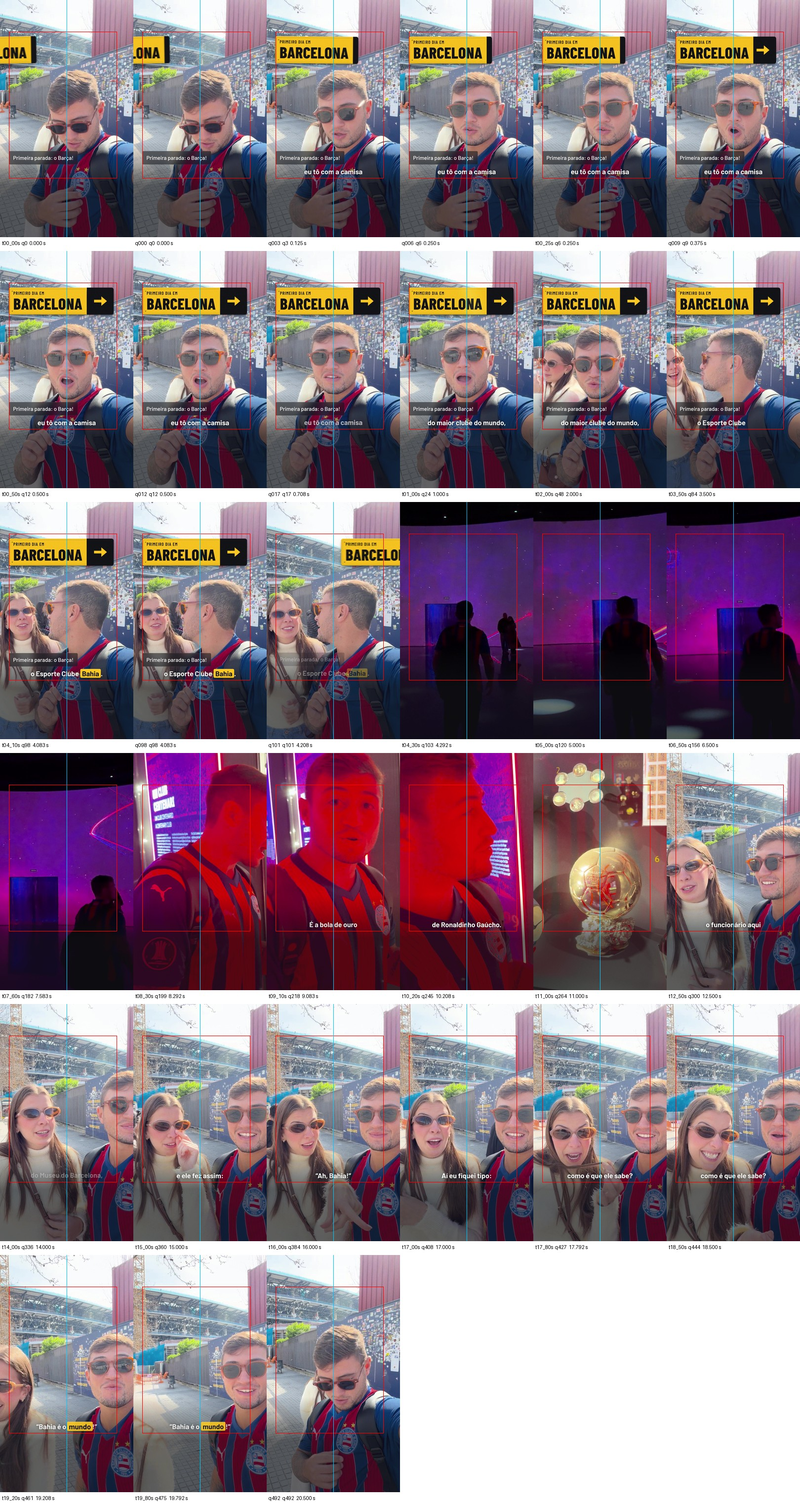
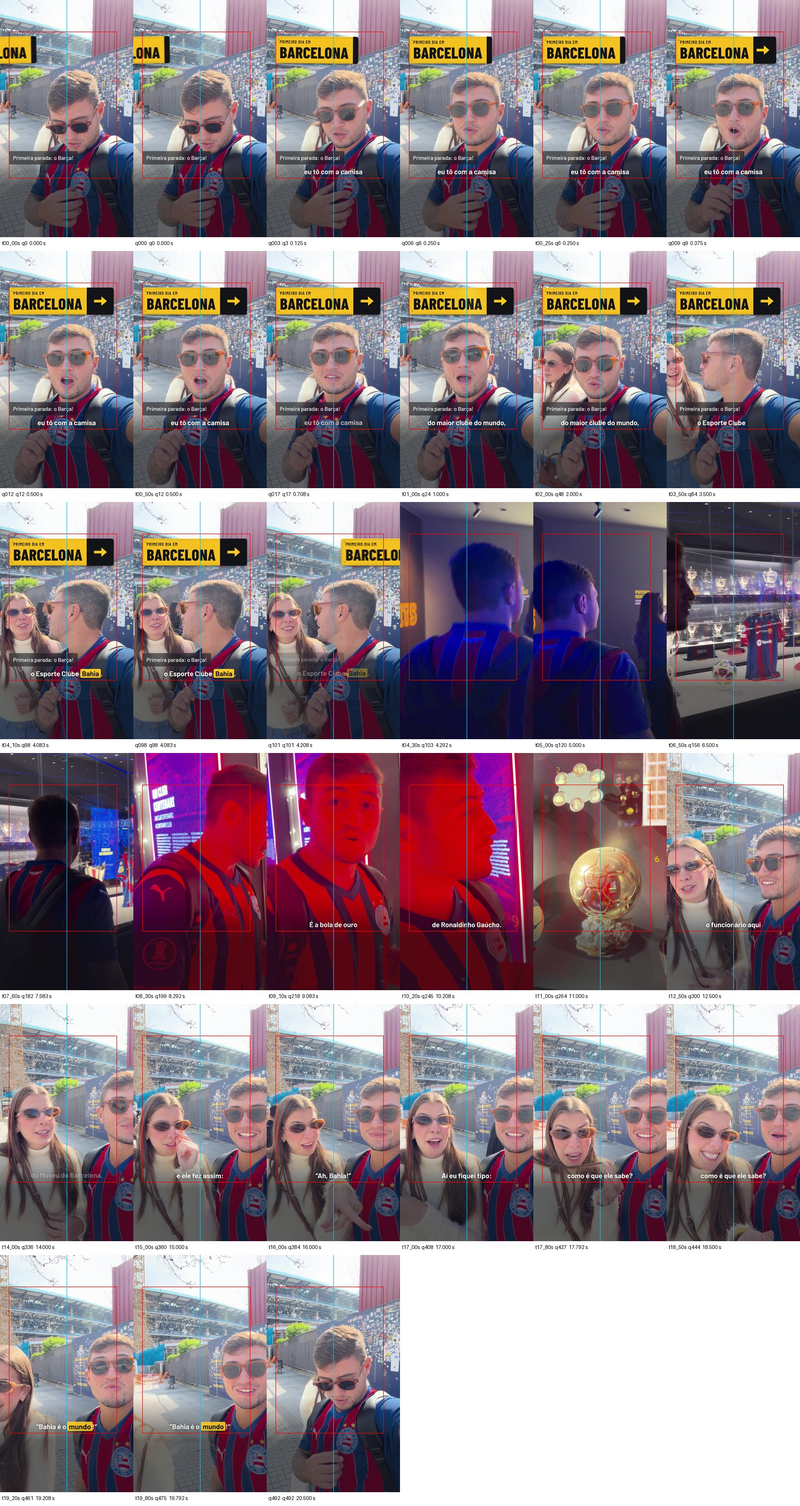
fix(reel-bahia): você andando entre os troféus (IMG_0518) no lugar da sala imersiva
Dois cortes de 2 s do IMG_0518 (0–2 s e 10,17–12,17 s) somam os 4 s com o
Diego em quadro. Corrige a alça de áudio quando o plano começa em 0,0 s do
bruto.

Claude-Session: https://claude.ai/code/session_013wMMhRerBzmbda97gbmPHk

Changed region(s): [[0.4938, 0.3117, 1.0, 0.4987], [0.0, 0.4987, 0.1852, 0.6545]]

diff --git a/reels/bahia-camp-nou/rev1/scripts/rev1.py b/reels/bahia-camp-nou/rev1/scripts/rev1.py
@@ -739,7 +739,12 @@ def montar_audio():
         r0, r1 = p["r0"] * SPF, p["r1"] * SPF
         ha = h if i > 0 else 0
         hb = h if i < len(PL) - 1 else 0
-        trecho = src[o0 - ha:o0 + (r1 - r0) + hb].copy()
+        # alças da emenda: se o plano começa/termina rente ao bruto, completa com silêncio
+        pre = max(0, ha - o0)
+        trecho = np.vstack([np.zeros((pre, 2)), src[max(0, o0 - ha):o0 + (r1 - r0) + hb]])
+        falta = (r1 - r0) + ha + hb - len(trecho)
+        if falta > 0:
+            trecho = np.vstack([trecho, np.zeros((falta, 2))])
         env = np.ones(len(trecho))
         if ha:
             env[:2 * ha] = np.sin(np.linspace(0, np.pi / 2, 2 * ha))

diff --git a/reels/bahia-camp-nou/rev1/QA_REV1.md b/reels/bahia-camp-nou/rev1/QA_REV1.md
@@ -13,7 +13,7 @@
 | `rev1/rev1.json` · `rev1/scripts/rev1.py` · `rev1/scripts/capa.py` | Projeto reproduzível (cortes, textos, áudio, tokens) |
 | `rev1/relatorio_tecnico_rev1.json` · `rev1/qa_frames/` | Medidas, quadros de QA, folha de contato, miniatura, emenda do loop |
 
-**Formato:** 1080 × 1920, 24 fps, 493 quadros = 20,542 s (vídeo e áudio iguais), H.264 High (CRF 16, preset slow), yuv420p, BT.709, AAC 48 kHz 192 kbps estéreo, 52,9 MB (≈ 21 Mbit/s), sem marca d'água. Áudio: −14,0 LUFS integrados, pico verdadeiro −1,4 dBTP.
+**Formato:** 1080 × 1920, 24 fps, 493 quadros = 20,542 s (vídeo e áudio iguais), H.264 High (CRF 16, preset slow), yuv420p, BT.709, AAC 48 kHz 192 kbps estéreo, 55,1 MB (≈ 21,5 Mbit/s), sem marca d'água. Áudio: −14,0 LUFS integrados, pico verdadeiro −1,3 dBTP.
 
 **Como renderizar** (de dentro de `reels/bahia-camp-nou/`, com os brutos em `fonte/brutos/`):
 ```bash
@@ -29,7 +29,8 @@ Todos são brutos 4K HLG originais da pasta Barcelona do Drive: 3840 × 2160 ou 
 | # | Reel (s) | Cena | Bruto | Trecho no bruto (s) | Recorte 9:16 (x no 4K) | Fala |
 |---|---|---|---|---|---|---|
 | 1 | 0,000–4,250 | Gancho | IMG_0552 | 5,040–9,290 | 1618 (1214 × 2158) | "eu tô com a camisa do maior clube do mundo, o Esporte Clube Bahia." |
-| 2 | 4,250–8,250 | Dentro do museu | IMG_0537 | 26,000–30,000 | 1426 | — (som da sala imersiva) |
+| 2 | 4,250–6,250 | Entre os troféus (a) | IMG_0518 | 0,000–2,000 | 236 (1214 × 2158) | — (som do museu) |
+| 2b | 6,250–8,250 | Entre os troféus (b) | IMG_0518 | 10,170–12,170 | 928 | — (som do museu) |
 | 3 | 8,250–10,417 | Bola de Ouro | IMG_0513 | 0,920–3,087 | 658 | "É a bola de ouro de Ronaldinho Gaúcho, velho." |
 | 4 | 10,417–11,625 | Bola de Ouro (close) | IMG_0513 | 4,900–6,108 | 1388 | — |
 | 5 | 11,625–14,042 | Pico (a) | IMG_0552 | 16,050–18,467 | 1312 | "o funcionário aqui do Museu do Barcelona," |
@@ -52,8 +53,9 @@ Os tempos exatos de cada plano (em quadros) estão em `relatorio_tecnico_rev1.js
 | 12/10 | Tirar a parte "não vamos entrar no estádio" | Cena da reforma removida |
 | 13/10 | "primeira parada" logo no primeiro quadro | Narrativa aberta desde o quadro 0, durante todo o gancho |
 | 13/10 | Tirar a vinheta (placa entrando) | Placa removida (versão intermediária, não entregue) |
-| 13/10 | Trocar a cena andando do lado de fora por uma dentro do museu | IMG_0502 → IMG_0537 (sala imersiva) |
+| 13/10 | Trocar a cena andando do lado de fora por uma dentro do museu | IMG_0502 → IMG_0537 (sala imersiva), depois substituída (linha abaixo) |
 | 13/10 | Take andando mais estável e 1 s mais longo | IMG_0537 12,4–15,4 s → 26,0–30,0 s (4 s). Tremor medido com `scripts/medir_tremor.py`: 2,7 px contra 3,7 do trecho anterior (e mais de 7 se só esticasse). O IMG_0541 (36–40 s, 1,7) era mais estável, mas o Diego aparece só como silhueta escura |
+| 13/10 | Trocar a sala imersiva por você andando entre os troféus | IMG_0518 (vitrine do futebol feminino): 2 s de você caminhando até a vitrine (0–2 s) + 2 s andando ao longo dela (10,17–12,17 s) = 4 s com você em quadro. Um take contínuo de 4 s perdia você de vista em 2 s. Tremor: 3,1 px (primeiro take: 3,7; sala imersiva: 2,7) |
 | 13/10 | Placa de volta, em cima, sem cobrir o rosto, com "Primeiro dia em Barcelona" + "Primeira parada: o Barça!", dentro do DS | Placa variante Abertura `PRIMEIRO DIA EM / BARCELONA` com Chegada no quadro 0, em x 72 · y 296; "Primeira parada: o Barça!" na Narrativa (vidro), junto, desde o quadro 0 |
 
 ## Camada visual (DS V2, Nível B)
@@ -70,10 +72,10 @@ Os tempos exatos de cada plano (em quadros) estão em `relatorio_tecnico_rev1.js
 ## Áudio
 
 - **Origem:** som direto da faixa AAC 0 de cada bruto, com passa-altas de 80 Hz e redução de ruído leve (`afftdn` 6 dB). O atraso de 25 ms do filtro foi compensado (1197 amostras).
-- **Ganho por grupo:** a voz vai a −16 LUFS antes do master, e o ambiente do museu a −24 LUFS. Ganhos aplicados: gancho +5,5 dB, museu (fala) +2,8 dB, Marina +6,8 dB, ambiente da sala imersiva −5,5 dB (o trecho é alto, com o som da própria instalação).
+- **Ganho por grupo:** a voz vai a −16 LUFS antes do master, e o ambiente do museu a −24 LUFS. Ganhos aplicados: gancho +5,5 dB, museu (fala) +2,8 dB, Marina +6,8 dB, ambiente do museu −2,4 dB.
 - **Emendas:** de 20 ms, potência constante.
 - **Master:** −14 LUFS integrados e pico verdadeiro ≤ −1 dBTP (DS 4.6), com limitador de 5 ms nos picos.
-- **Música:** nenhuma. Os brutos não têm violão embutido, só o som ambiente real. Na sala imersiva (plano 2) há o som da própria instalação.
+- **Música:** nenhuma. Os brutos não têm violão embutido, só o som ambiente real. O som do plano 2 é o do museu (IMG_0518), com ambiente e vozes ao longe.
 - **Validação auditiva:** não foi feita por mim (CLAUDE.md, 12). A fala do render foi conferida por transcrição automática (Whisper medium e large-v3), e as três dúvidas estão abaixo.
 
 ### A conferir de ouvido (Diego)

diff --git a/reels/bahia-camp-nou/analise/frases_brutos_IMG_0518.md b/reels/bahia-camp-nou/analise/frases_brutos_IMG_0518.md
@@ -1,0 +1,5 @@
+# Frases dos brutos (faster-whisper medium, pt)
+
+## IMG_0518.MOV
+
+
